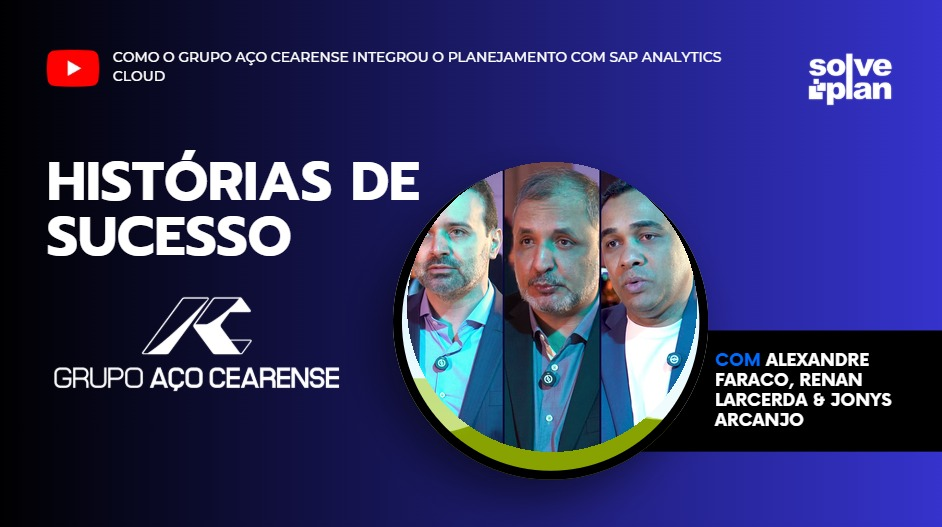
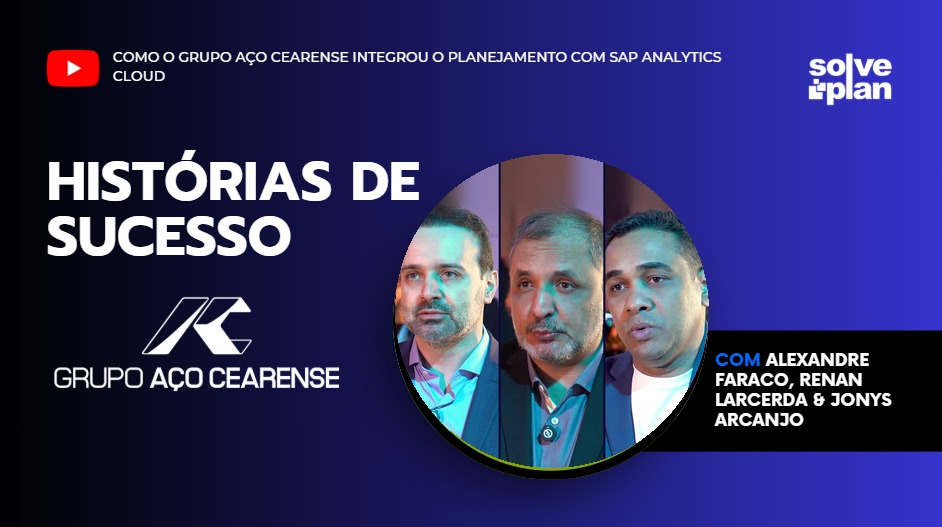
auto-sync: 2026-10-13 16:12

Changed region(s): [[0.4002, 0.2732, 0.7696, 0.9108]]

diff --git a/marketing/paginas/case-grupo-aco-cearense/gerar_foto_thumbnail.py b/marketing/paginas/case-grupo-aco-cearense/gerar_foto_thumbnail.py
@@ -5,11 +5,12 @@ Uso: python gerar_foto_thumbnail.py <pasta-com-alexandre.png-renan.png-jonys.png
 Os frames saem do vídeo com ffmpeg: alexandre 197 s, renan 58,5 s, jonys 102 s.
 """
 import sys, pathlib
-from PIL import Image, ImageDraw, ImageEnhance
+from PIL import Image, ImageDraw, ImageEnhance, ImageFilter
 
 SRC = pathlib.Path(sys.argv[1])
 OUT = pathlib.Path(__file__).parent
 SIZE, STRIP, GAP = 1200, 400, 8
+DROP = 170                               # quanto os rostos descem para ficar no meio do círculo
 NAVY = (10, 8, 55)
 
 # (arquivo, centro do rosto no eixo x do frame 1920x1080)
@@ -21,7 +22,12 @@ for i, (fname, cx) in enumerate(PEOPLE):
     im = Image.open(SRC / fname).convert("RGB")
     im = ImageEnhance.Color(im).enhance(0.92)          # tira um pouco do ciano/magenta do estande
     strip = im.crop((cx - w // 2, 0, cx + w // 2, 1080)).resize((STRIP, SIZE), Image.LANCZOS)
-    canvas.paste(strip, (i * STRIP, 0))
+    # o enquadramento do vídeo é fechado: desce o rosto e completa o topo com o fundo desfocado
+    top = strip.crop((0, 0, STRIP, 40)).resize((STRIP, DROP + 80)).filter(ImageFilter.GaussianBlur(30))
+    canvas.paste(top, (i * STRIP, 0))
+    fade = Image.linear_gradient("L").resize((STRIP, 80))           # transição suave na emenda
+    mask = Image.new("L", (STRIP, SIZE), 255); mask.paste(fade, (0, 0))
+    canvas.paste(strip, (i * STRIP, DROP), mask)
 d = ImageDraw.Draw(canvas)
 for x in (STRIP, 2 * STRIP):
     d.rectangle([x - GAP // 2, 0, x + GAP // 2 - 1, SIZE], fill=NAVY)
@@ -31,7 +37,7 @@ print("ok thumb-aco-cearense-3-pessoas.jpg")
 # prévia dentro da arte (opcional): círculo da arte em ~ (552, 307), raio ~145, em 942x527
 if len(sys.argv) > 2:
     art = Image.open(sys.argv[2]).convert("RGB")
-    cx, cy, r = 552, 307, 145
+    cx, cy, r = 552, 311, 157
     face = canvas.resize((2 * r, 2 * r), Image.LANCZOS)
     mask = Image.new("L", face.size, 0)
     ImageDraw.Draw(mask).ellipse([0, 0, 2 * r - 1, 2 * r - 1], fill=255)
